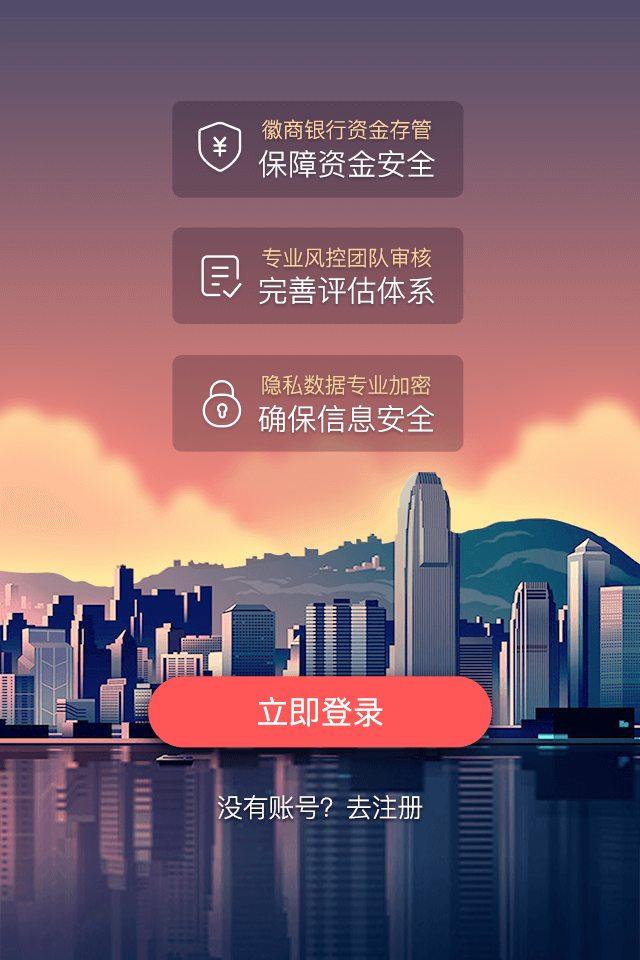
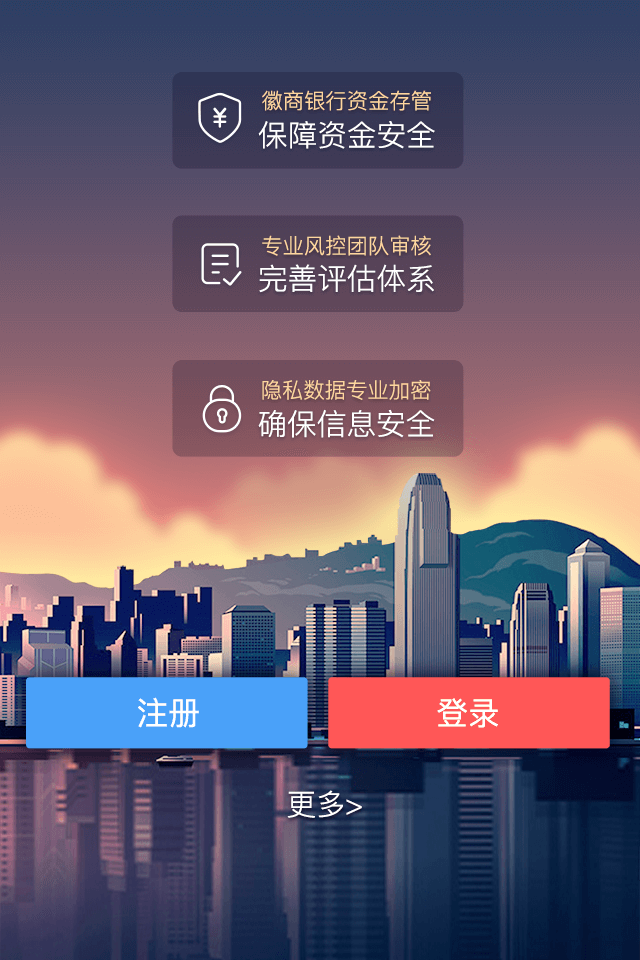
去除获取外网ip 和  替换登陆默认图

diff --git a/JRGC/LoginAndRegister/UCFLoginBaseView.m b/JRGC/LoginAndRegister/UCFLoginBaseView.m
@@ -10,12 +10,15 @@
 #import "UCFLoginViewController.h"
 #import "AppDelegate.h"
 #import "UCFRegisterStepOneViewController.h"
+#import "UCFMoreViewController.h"
 @interface UCFLoginBaseView ()
 {
     
 }
 @property (nonatomic, strong) UIImageView *baseImageView;
 @property (nonatomic, strong) UIButton    *registButton;
+@property (nonatomic, strong) UIButton    *moreButton;
+@property (nonatomic, strong) UIButton    *loginButton;
 @end
 
 @implementation UCFLoginBaseView
@@ -41,25 +44,40 @@
         [_baseImageView sd_setImageWithURL:[NSURL URLWithString:imageURL] placeholderImage:imageData];
         [self addSubview:_baseImageView];
         
-        UITapGestureRecognizer *tap = [[UITapGestureRecognizer alloc] initWithTarget:self action:@selector(login:)];
-        [_baseImageView addGestureRecognizer:tap];
+//        UITapGestureRecognizer *tap = [[UITapGestureRecognizer alloc] initWithTarget:self action:@selector(login:)];
+//        [_baseImageView addGestureRecognizer:tap];
+        
+        _moreButton = [UIButton buttonWithType:UIButtonTypeCustom];
+        _moreButton.frame = CGRectMake(0, [self getMoreBtnOrginY] ,ScreenWidth, [self getMoreBtnSizeHeight]);
+        _moreButton.backgroundColor = [UIColor clearColor];
+//        _moreButton.backgroundColor = [UIColor redColor];
+        [_moreButton addTarget:self action:@selector(showMoreView) forControlEvents:UIControlEventTouchUpInside];
+        [_baseImageView addSubview:_moreButton];
         
         _registButton = [UIButton buttonWithType:UIButtonTypeCustom];
-        _registButton.frame = CGRectMake((ScreenWidth - [self getRegistBtnSizeWidth])/2.0f, [self getRegistBtnOrginY] ,[self getRegistBtnSizeWidth], [self getRegistBtnSizeHeight]);
+        _registButton.frame = CGRectMake(0, 0 ,ScreenWidth/2.0f, CGRectGetMinY(_moreButton.frame));
         _registButton.backgroundColor = [UIColor clearColor];
-        _registButton.alpha = 0.5;
         [_registButton addTarget:self action:@selector(registBtnClick:) forControlEvents:UIControlEventTouchUpInside];
+//        _registButton.backgroundColor = [UIColor blueColor];
         [_baseImageView addSubview:_registButton];
+        
+        _loginButton = [UIButton buttonWithType:UIButtonTypeCustom];
+        _loginButton.frame = CGRectMake(ScreenWidth/2.0f, 0 ,ScreenWidth/2.0f, CGRectGetMinY(_moreButton.frame));
+        _loginButton.backgroundColor = [UIColor clearColor];
+        [_loginButton addTarget:self action:@selector(shouLoginView) forControlEvents:UIControlEventTouchUpInside];
+//        _loginButton.backgroundColor = [UIColor yellowColor];
+        [_baseImageView addSubview:_loginButton];
+        
     }
     return self;
 }
-- (CGFloat)getRegistBtnOrginY
+- (CGFloat)getMoreBtnOrginY
 {
     //iphone5 高度568以下
     if (ScreenHeight < 569) {
-        return ScreenHeight - (55 + [self getRegistBtnSizeHeight]);
+        return ScreenHeight - (55 + [self getMoreBtnSizeHeight]);
     } else {
-        return ScreenHeight -  (55 * ScreenHeight /568.0f + [self getRegistBtnSizeHeight]);
+        return ScreenHeight -  (55 * ScreenHeight /568.0f + [self getMoreBtnSizeHeight]);
     }
 }
 - (CGFloat)getRegistBtnSizeWidth
@@ -71,7 +89,7 @@
         return (150 * ScreenHeight /568.0f);
     }
 }
-- (CGFloat)getRegistBtnSizeHeight
+- (CGFloat)getMoreBtnSizeHeight
 {
     //iphone5 高度以下
     if (ScreenHeight < 569) {
@@ -104,5 +122,15 @@
     AppDelegate *app = (AppDelegate*)[UIApplication sharedApplication].delegate;
     UINavigationController *nav = app.tabBarController.selectedViewController ;
     [nav presentViewController:loginNaviController animated:YES completion:nil];
+}
+- (void)showMoreView
+{
+    UIStoryboard *storyboard = [UIStoryboard storyboardWithName:@"UCFMoreViewController" bundle:nil];
+    UCFMoreViewController *moreVC = [storyboard instantiateViewControllerWithIdentifier:@"more_main"];
+    moreVC.title = @"更多";
+    moreVC.sourceVC = @"UCFSecurityCenterViewController";
+    AppDelegate *app = (AppDelegate*)[UIApplication sharedApplication].delegate;
+    UINavigationController *nav = app.tabBarController.selectedViewController;
+    [nav pushViewController:moreVC  animated:YES];
 }
 @end

diff --git a/JRGC/Aplication/AppDelegate.mm b/JRGC/Aplication/AppDelegate.mm
@@ -59,6 +59,7 @@
 @implementation AppDelegate
 
 - (BOOL)application:(UIApplication *)application didFinishLaunchingWithOptions:(NSDictionary *)launchOptions {
+
     //设置公告展示标志位
     [[NSUserDefaults standardUserDefaults] setBool:YES forKey:@"isShowNotice"];
     [[NSUserDefaults standardUserDefaults] synchronize];
@@ -67,7 +68,6 @@
     [[ToolSingleTon sharedManager] getGoldPrice]; //获取实时金价
 
     [self setWebViewUserAgent];
-//    [UCFSession sharedManager].delegate = self;
     [self checkNovicePoliceOnOff];//监测2017新手奖励政策开关。
     
     self.window = [[UIWindow alloc] initWithFrame:[[UIScreen mainScreen] bounds]];
@@ -96,14 +96,14 @@
 
     [[NSNotificationCenter defaultCenter] addObserver:self selector:@selector(checkInitiaLogin) name:CheckIsInitiaLogin object:nil];
     
-    [IPDetector getWANIPAddressWithCompletion:^(NSString *IPAddress) {
-        NSString *curWanIp = IPAddress;
-        if (![curWanIp isEqualToString:@""] && curWanIp) {
-            curWanIp = [AuxiliaryFunc deleteHuanHang:[NSMutableString stringWithString:curWanIp]];
-        }
-        [[NSUserDefaults standardUserDefaults] setValue:curWanIp forKey:@"curWanIp"];
-        [[NSUserDefaults standardUserDefaults] synchronize];
-    }];
+//    [IPDetector getWANIPAddressWithCompletion:^(NSString *IPAddress) {
+//        NSString *curWanIp = IPAddress;
+//        if (![curWanIp isEqualToString:@""] && curWanIp) {
+//            curWanIp = [AuxiliaryFunc deleteHuanHang:[NSMutableString stringWithString:curWanIp]];
+//        }
+//        [[NSUserDefaults standardUserDefaults] setValue:curWanIp forKey:@"curWanIp"];
+//        [[NSUserDefaults standardUserDefaults] synchronize];
+//    }];
     
     //去掉navigationbar 下面默认的白线
     [[UINavigationBar appearance] setBackgroundImage:[[UIImage alloc] init] forBarMetrics:UIBarMetricsDefault];

diff --git a/JRGC/Setting/TopUpAndCash(充值和提现)/UCFCashViewController.m b/JRGC/Setting/TopUpAndCash(充值和提现)/UCFCashViewController.m
@@ -920,14 +920,14 @@
 }
 #pragma mark - 同盾
 - (void) didReceiveDeviceBlackBox: (NSString *) blackBox {
-    NSString *wanip = [[NSUserDefaults standardUserDefaults] valueForKey:@"curWanIp"];
+//    NSString *wanip = [[NSUserDefaults standardUserDefaults] valueForKey:@"curWanIp"];
     NSString *bankNoStr = @"";
     if(_bankBranchViewHeight2.constant != 44){//开户支行未选择的用户 就是实时提现
         bankNoStr = @"";//联行号为空 意味着用户选择的是实时提现 不为空 则为大额提现
     }else{
         bankNoStr = _cashBankNo;
     }
-    NSDictionary *dataDic = [NSDictionary dictionaryWithObjectsAndKeys:[[NSUserDefaults standardUserDefaults] objectForKey:UUID],@"userId",_crachTextField.text,@"reflectAmount",bankNoStr,@"bankNo",@"",@"validateCode",_withdrawToken,@"withdrawTicket",blackBox, @"token_id",wanip,@"ip",nil];
+    NSDictionary *dataDic = [NSDictionary dictionaryWithObjectsAndKeys:[[NSUserDefaults standardUserDefaults] objectForKey:UUID],@"userId",_crachTextField.text,@"reflectAmount",bankNoStr,@"bankNo",@"",@"validateCode",_withdrawToken,@"withdrawTicket",blackBox, @"token_id",nil];
     [[NetworkModule sharedNetworkModule] newPostReq:dataDic tag:kSXTagWithdrawSub owner:self signature:YES Type:self.accoutType];
 }
 - (void)mjalertView:(MjAlertView *)alertview didClickedButton:(UIButton *)clickedButton andClickedIndex:(NSInteger)index{

diff --git a/JRGC/Setting/TopUpAndCash(充值和提现)/UCFTopUpViewController.m b/JRGC/Setting/TopUpAndCash(充值和提现)/UCFTopUpViewController.m
@@ -466,7 +466,7 @@
 - (void) didReceiveDeviceBlackBox: (NSString *) blackBox {
     
     [MBProgressHUD showHUDAddedTo:self.view animated:YES];
-    NSString *wanip = [[NSUserDefaults standardUserDefaults] valueForKey:@"curWanIp"];
+//    NSString *wanip = [[NSUserDefaults standardUserDefaults] valueForKey:@"curWanIp"];
     NSString *inputMoney = [Common deleteStrHeadAndTailSpace:_topUpLabelTextField.text];
     NSMutableDictionary *paraDict = [NSMutableDictionary dictionary];
     [paraDict setValue:inputMoney forKey:@"payAmount"];
@@ -475,7 +475,7 @@
     [paraDict setValue:[[NSUserDefaults standardUserDefaults] valueForKey:UUID] forKey:@"userId"];
     [paraDict setValue:self.smsSerialNo forKey:@"validateNo"];
     [paraDict setValue:blackBox forKey:@"token_id"];
-    [paraDict setValue:wanip forKey:@"ip"];
+//    [paraDict setValue:wanip forKey:@"ip"];
     [paraDict setValue:_RechargeTokenStr forKey:@"rechargeToken"];
     [[NetworkModule sharedNetworkModule] newPostReq:paraDict tag:kSxTagHSPayMobile owner:self signature:YES Type:self.accoutType];
 }

diff --git a/JRGC/LoginAndRegister/UCFLoginViewController.m b/JRGC/LoginAndRegister/UCFLoginViewController.m
@@ -390,12 +390,12 @@
 #pragma mark - 同盾
 - (void) didReceiveDeviceBlackBox: (NSString *) blackBox {
     NSString *blockId = blackBox;
-    NSString *wanip = [[NSUserDefaults standardUserDefaults] valueForKey:@"curWanIp"];
+//    NSString *wanip = [[NSUserDefaults standardUserDefaults] valueForKey:@"curWanIp"];
     NSMutableDictionary *parDic = [NSMutableDictionary dictionary];
     [parDic setValue:_loginView.userNameFieldText forKey:@"username"];
     [parDic setValue:[MD5Util MD5Pwd:_loginView.passwordFieldText] forKey:@"pwd"];
     [parDic setValue:blockId forKey:@"token_id"];
-    [parDic setValue:wanip forKey:@"ip"];
+//    [parDic setValue:wanip forKey:@"ip"];
     NSString *isCompanyStr = self.selectTag == 0 ? @"false" : @"true";
     [parDic setValue:isCompanyStr forKey:@"isCompany"];
     [[NetworkModule sharedNetworkModule] newPostReq:parDic tag:kSXTagLogin owner:self signature:NO Type:SelectAccoutDefault];

diff --git a/JRGC/LoginAndRegister/UCFRegisterStepTwoViewController.m b/JRGC/LoginAndRegister/UCFRegisterStepTwoViewController.m
@@ -344,7 +344,7 @@
 
 #pragma mark - 同盾
 - (void) didReceiveDeviceBlackBox: (NSString *) blackBox {
-    NSString *wanip = [[NSUserDefaults standardUserDefaults] valueForKey:@"curWanIp"];
+//    NSString *wanip = [[NSUserDefaults standardUserDefaults] valueForKey:@"curWanIp"];
     NSString *blockId = blackBox;
     NSMutableDictionary *parDic = [NSMutableDictionary dictionary];
     //[parDic setValue:_registerTwoView.getUserName forKey:@"username"];
@@ -355,7 +355,7 @@
     [parDic setValue:_registerTwoView.getRefereesCode forKey:@"factoryCode"];
     [parDic setValue:@"1" forKey:@"sourceType"];
     [parDic setValue:blockId forKey:@"token_id"];
-    [parDic setValue:wanip forKey:@"ip"];
+//    [parDic setValue:wanip forKey:@"ip"];
     [parDic setValue:_registerTokenStr forKey:@"registTicket"];
     [parDic setValue:@"1" forKey:@"userId"];
     if (![QDCODE isEqualToString:@""]) {

diff --git a/JRGC/ThirdLibs/Common.m b/JRGC/ThirdLibs/Common.m
@@ -600,10 +600,10 @@
     return NO;
 }
 
-+ (NSString *)getIPAddress
-{
-    return [[NSUserDefaults standardUserDefaults] valueForKey:@"curWanIp"];
-}
+//+ (NSString *)getIPAddress
+//{
+//    return [[NSUserDefaults standardUserDefaults] valueForKey:@"curWanIp"];
+//}
 
 
 + (BOOL)isPureNumandCharacters:(NSString *)string

diff --git a/JRGC/ThirdLibs/Common.h b/JRGC/ThirdLibs/Common.h
@@ -88,7 +88,7 @@ typedef NS_ENUM(NSInteger, PicType) {
  *
  *  @return ip地址
  */
-+ (NSString *)getIPAddress;
+//+ (NSString *)getIPAddress;
 
 //判断是否为纯数字
 + (BOOL)isPureNumandCharacters:(NSString *)string;
